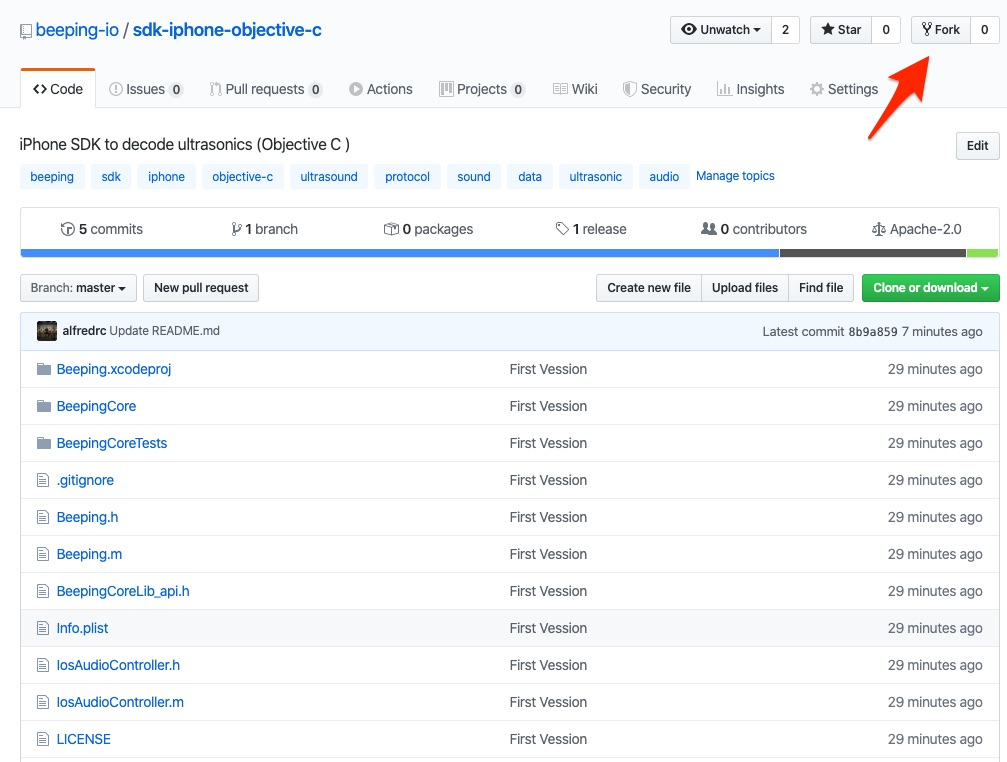
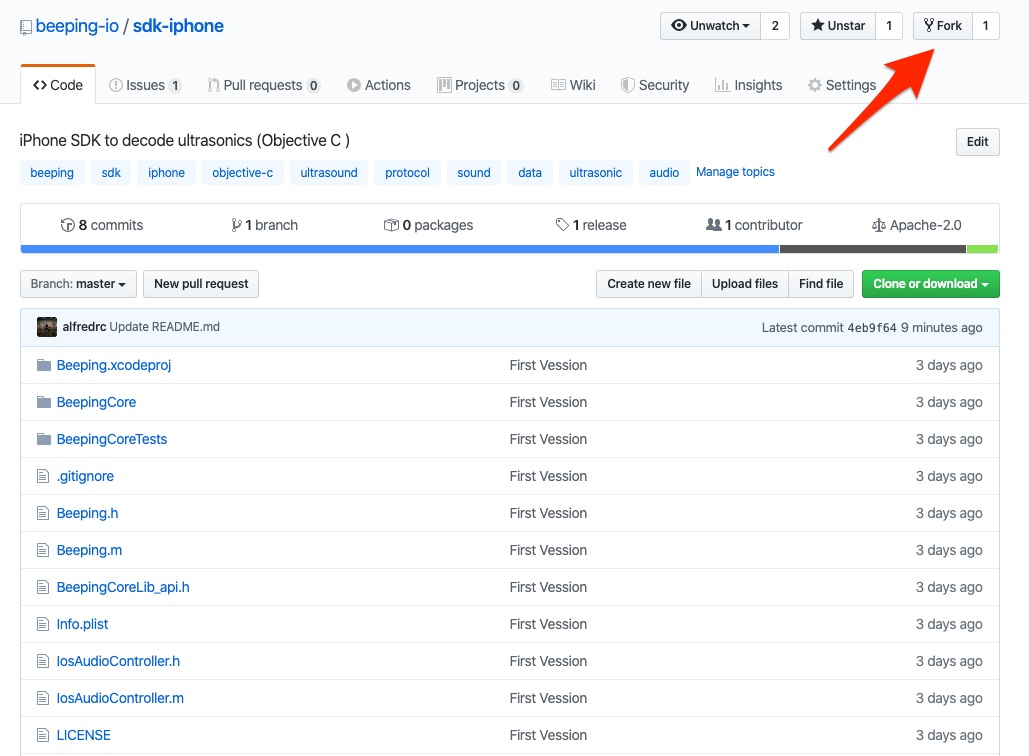
Typos Fixes

diff --git a/docs/es/components/sdk-iphone.md b/docs/es/components/sdk-iphone.md
@@ -14,7 +14,7 @@
 
 A continuación os dejamos el link del repositorio de este componente:
 
-* [iPhone SDK](https://github.com/beeping-io/sdk-iphone-objective-c)
+* [iPhone SDK](https://github.com/beeping-io/sdk-iphone)
 
 ## Compilar
 
@@ -24,20 +24,20 @@ El código fuente del **SDK de iPhone** se puede compilar en los siguientes Sist
 
 Para compilar el código debemos seguir los siguientes pasos:
 
-- [Hacer un fork del repositorio](https://github.com/beeping-io/sdk-iphone-objective-c)
+- [Hacer un fork del repositorio](https://github.com/beeping-io/sdk-iphone)
 
 [![Fork](/assets/images/shoots/iphonesdk-fork.jpg)](/assets/images/shoots/iphonesdk-fork.jpg)
 
 - Hacer un clone del repositorio
 
 ``` bash
-$ git clone https://github.com/[YOUR_GIT_USERNAME]/sdk-iphone-objective-c
+$ git clone https://github.com/[YOUR_GIT_USERNAME]/sdk-iphone
 ```
 
 - Entrar en el directorio de la sdk de iPhone
 
 ``` bash
-$ cd sdk-iphone-objective-c
+$ cd sdk-iphone
 ```
 
 - Compilar la SDK

diff --git a/docs/en/components/sdk-iphone.md b/docs/en/components/sdk-iphone.md
@@ -14,7 +14,7 @@
 
 Then we leave the link of the repository of this component:
 
-* [iPhone SDK](https://github.com/beeping-io/sdk-iphone-objective-c)
+* [iPhone SDK](https://github.com/beeping-io/sdk-iphone)
 
 ## Compile
 
@@ -24,20 +24,20 @@ The **iPhone SDK** source code can be compiled in the following Operating System
 
 To compile the code we must follow the following steps:
 
-- [Fork the repository](https://github.com/beeping-io/sdk-iphone-objective-c)
+- [Fork the repository](https://github.com/beeping-io/sdk-iphone)
 
 [![Fork](/assets/images/shoots/iphonesdk-fork.jpg)](/assets/images/shoots/iphonesdk-fork.jpg)
 
 -  Make a clone of the repository
 
 ``` bash
-$ git clone https://github.com/[YOUR_GIT_USERNAME]/sdk-iphone-objective-c
+$ git clone https://github.com/[YOUR_GIT_USERNAME]/sdk-iphone
 ```
 
 - Enter the SDK directory
 
 ``` bash
-$ cd sdk-iphone-objective-c
+$ cd sdk-iphone
 ```
 
 - Compile the SDK

diff --git a/docs/es/tutorials/iphone-hello.md b/docs/es/tutorials/iphone-hello.md
@@ -28,7 +28,7 @@ A continuación os dejamos los pasos que debes seguir para crear vuestra primera
 
 Lo primero que debemos hacer es descargar el SDK de iPhone.
 
-[Hacer click aquí para descargar el framework](https://github.com/beeping-io/sdk-iphone-objective-c/releases/download/1.0.0/Beeping.framework-objective-c.zip)
+[Hacer click aquí para descargar el framework](https://github.com/beeping-io/sdk-iphone/releases/download/1.0.0/Beeping.framework.zip)
 
 Una vez descargado lo descomprimimos y dejamos accesible el framework **beeping-framework** para más adelante.
 

diff --git a/docs/en/tutorials/iphone-hello.md b/docs/en/tutorials/iphone-hello.md
@@ -28,7 +28,7 @@ Here are the steps you must follow to create your first **App**.
     
 The first thing we should do is download the iPhone SDK.
 
-[Click here to download the framework](https://github.com/beeping-io/sdk-iphone-objective-c/releases/download/1.0.0/Beeping.framework-objective-c.zip)
+[Click here to download the framework](https://github.com/beeping-io/sdk-iphone/releases/download/1.0.0/Beeping.framework.zip)
 
 Once downloaded we unzip it and leave the **beeping-framework** file accessible for later.
 

diff --git a/docs/es/components/core.md b/docs/es/components/core.md
@@ -27,7 +27,7 @@ Dentro de este repositorio veréis que hay una calsificación por componente al 
 A continuación os dejamos una lista de los componentes que se ven afectados por el **Core System**:
 
 * [Beepbox](https://github.com/beeping-io/beepbox)
-* [iPhone SDK](https://github.com/beeping-io/sdk-iphone-objective-c)
+* [iPhone SDK](https://github.com/beeping-io/sdk-iphone)
 * [Android SDK](https://github.com/beeping-io/sdk-android)
 
 ## Frase

diff --git a/docs/es/components/beepbox-core.md b/docs/es/components/beepbox-core.md
@@ -22,6 +22,8 @@ Para compilar esta librería debéis seguir los siguientes pasos:
 
 - [Hacer un fork del repositorio](https://github.com/beeping-io/beeping-core)
 
+[![Fork](/assets/images/shoots/core-fork.jpg)](/assets/images/shoots/core-fork.jpg)
+
 - Hacer un clone del repositorio
 
 ``` bash

diff --git a/docs/es/components/sdk-iphone-core.md b/docs/es/components/sdk-iphone-core.md
@@ -22,6 +22,8 @@ Para compilar esta librería debéis seguir los siguientes pasos:
 
 - [Hacer un fork del repositorio](https://github.com/beeping-io/beeping-core)
 
+[![Fork](/assets/images/shoots/core-fork.jpg)](/assets/images/shoots/core-fork.jpg)
+
 - Hacer un clone del repositorio
 
 ``` bash

diff --git a/docs/en/components/beepbox-core.md b/docs/en/components/beepbox-core.md
@@ -22,6 +22,8 @@ To compile this library you must follow the following steps:
 
 - [Fork the repository](https://github.com/beeping-io/beeping-core)
 
+[![Fork](/assets/images/shoots/core-fork.jpg)](/assets/images/shoots/core-fork.jpg)
+
 - Make a clone of the repository
 
 ``` bash

diff --git a/docs/en/components/sdk-iphone-core.md b/docs/en/components/sdk-iphone-core.md
@@ -22,6 +22,8 @@ To compile this library you must follow the following steps:
 
 - [Fork the repository](https://github.com/beeping-io/beeping-core)
 
+[![Fork](/assets/images/shoots/core-fork.jpg)](/assets/images/shoots/core-fork.jpg)
+
 - Make a clone of the repository
 
 ``` bash
